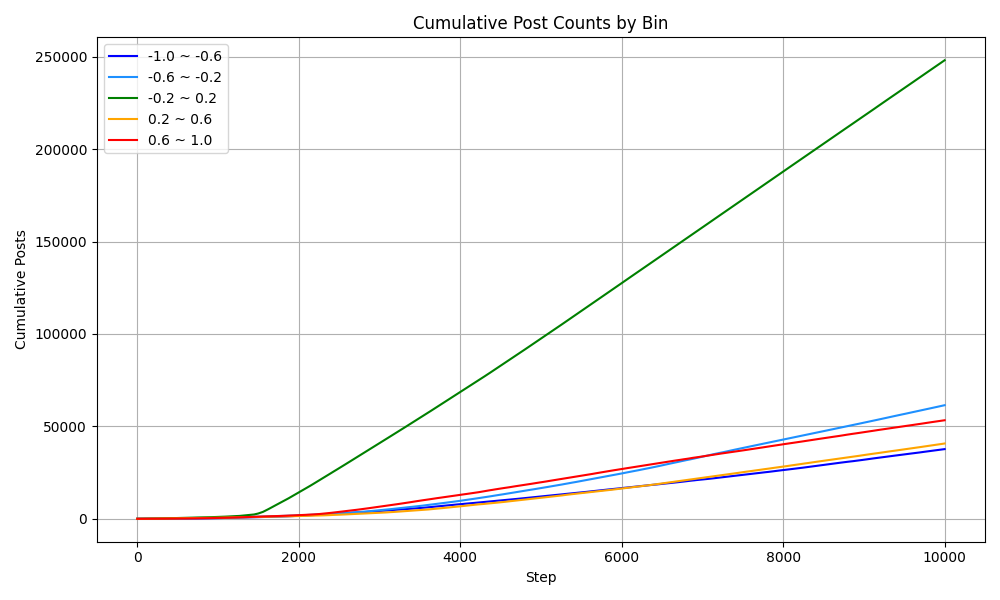
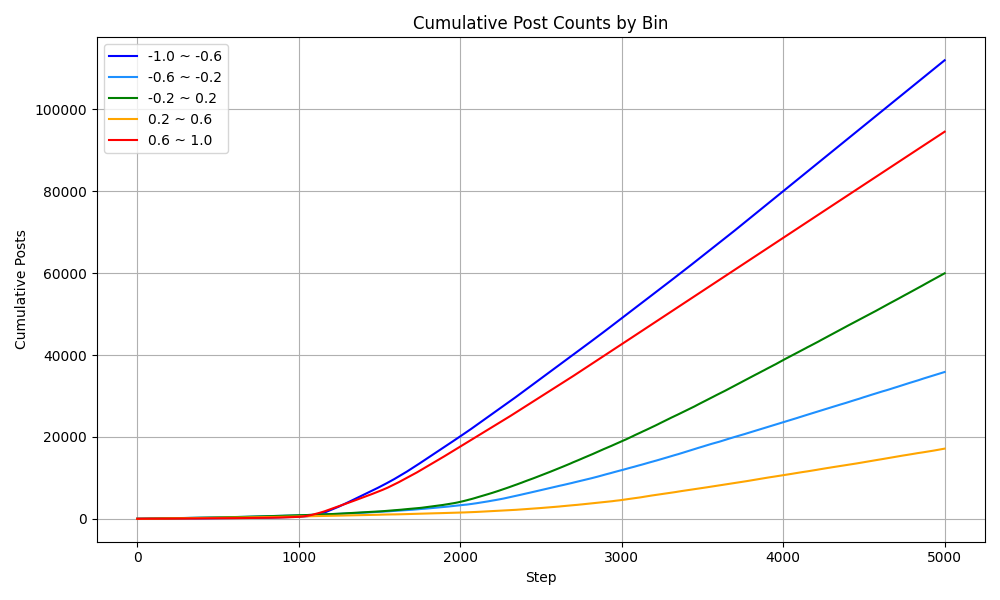
likeが諸悪の根源

diff --git a/src/dynamics/OpinionDynamics.java b/src/dynamics/OpinionDynamics.java
@@ -10,8 +10,7 @@ import java.util.ArrayList;
 import java.util.HashSet;
 import java.util.List;
 import java.util.Random;
-
-import com.gurobi.gurobi.GRBException;
+import java.util.Set;
 
 import network.Network;
 import network.RandomNetwork;
@@ -76,45 +75,65 @@ public class OpinionDynamics {
         writer.setOpinionBins(agentSet);
         writer.write();
 
-        for (int step = 1; step <= t; step++) {
-            int followActionNum = 0;
-            int unfollowActionNum = 0;
-            System.out.println("step = " + step);
+        int followActionNum;
+        int unfollowActionNum;
 
+        for (int step = 1; step <= t; step++) {
+            System.out.println("step = " + step);
+            followActionNum = 0;
+            unfollowActionNum = 0;
 
             writer.clearPostBins();
             writer.setSimulationStep(step);
             double[][] W = admin.getAdjacencyMatrix();
 
-            for(Agent agent : agentSet){
+            for (Agent agent : agentSet) {
                 int agentId = agent.getId();
                 // このstepでSNSを利用するか決定する
-                if(rand.nextDouble() > agent.getMediaUseRate()){
+                if (rand.nextDouble() > agent.getMediaUseRate()) {
                     continue;
                 }
 
                 int likedId = agent.like();
+                //int likedId = -1;
 
                 // follow
-                List<Integer> followList = new ArrayList<>();
+                /*List<Integer> followList = new ArrayList<>();
                 for (int j = 0; j < agentNum; j++) {
                     if (agentId != j && W[agentId][j] == 0.0) {
                         followList.add(j);
                     }
                 }
                 // 重複を削除 (フォローしているユーザがフォローしているユーザは被る可能性がある)
-                followList = new ArrayList<>(new HashSet<>(followList));
+                followList = new ArrayList<>(new HashSet<>(followList));*/
+                List<Integer> followList = new ArrayList<>();
+                Set<Integer> candidates = new HashSet<>();
+
+                // 自分のフォロー相手（1次近傍）を取得
+                for (int j = 0; j < agentNum; j++) {
+                    if (agentId != j && W[agentId][j] > 0.0) {
+                        // フォロー中のエージェント j のフォロー相手を候補に追加（2次近傍）
+                        for (int k = 0; k < agentNum; k++) {
+                            if (k != agentId && W[j][k] > 0.0 && W[agentId][k] == 0.0) {
+                                candidates.add(k);
+                            }
+                        }
+                    }
+                }
+
+                followList = new ArrayList<>(candidates);
+
                 int followedId = agent.follow(followList, agentSet);
-                
+                //int followedId = -1;
 
                 // unfollow
                 int unfollowedId = agent.unfollow();
 
                 // post
-                if(rand.nextDouble() < agent.getPostProb()){
+                if (rand.nextDouble() < agent.getPostProb()) {
                     Post post = agent.makePost(step);
-                    for(Agent otherAgent : agentSet){
-                        if(otherAgent.getId() != agentId && W[agentId][otherAgent.getId()] > 0){ // follower全員のpostCashに追加
+                    for (Agent otherAgent : agentSet) {
+                        if (otherAgent.getId() != agentId && W[agentId][otherAgent.getId()] > 0.01) { // follower全員のpostCashに追加
                             otherAgent.addToPostCash(post);
                         }
                     }
@@ -126,15 +145,15 @@ public class OpinionDynamics {
                 agent.setFeed(admin.AdminFeedback(agentId, agentSet));
                 agent.resetPostCash();
                 ASChecker.assertionChecker(agentSet, network, agentNum, step);
-                if(followedId > 0){
+                if (followedId > 0) {
                     followActionNum++;
                 }
-                if(unfollowedId > 0){
+                if (unfollowedId > 0) {
                     unfollowActionNum++;
                 }
             }
 
-            if (step % 50 == 0) {
+            if (step % 100 == 0) {
                 // export gexf
                 network.setAdjacencyMatrix(admin.getAdjacencyMatrix());
                 gephi.updateGraph(agentSet, network);

diff --git a/src/agent/Agent.java b/src/agent/Agent.java
@@ -1,6 +1,8 @@
 package agent;
 
 import constants.Const;
+
+import java.util.ArrayList;
 import java.util.List;
 import java.util.Random;
 import rand.randomGenerater;
@@ -30,9 +32,9 @@ public class Agent {
         // this.intrinsicOpinion = rand.nextDouble() * 2.0 - 1;
         this.opinion = this.intrinsicOpinion;
         this.bc = Const.BOUNDED_CONFIDENCE; // 動的
-        this.numOfPosts = rand.nextInt(90) + 10;
+        // this.numOfPosts = rand.nextInt(80) + 20;
+        //this.numOfPosts = 10;
         setOpinionClass();
-        this.postCash = new PostCash(numOfPosts);
         this.postProb = Const.INITIAL_POST_PROB;
         this.feed = new int[NUM_OF_AGENTS];
     }
@@ -95,6 +97,11 @@ public class Agent {
 
     public void setNumOfPosts(int value) {
         this.numOfPosts = value;
+        setPostCash(this.numOfPosts);
+    }
+
+    public void setPostCash(int value){
+        this.postCash = new PostCash(value);
     }
 
     public void setToPost(int value) {
@@ -145,8 +152,9 @@ public class Agent {
 
         double comfortPostRate = (double) comfortPostNum / postNum;
         if(comfortPostRate > 0.8){
-            this.postProb += 0.05;
-            this.mediaUseRate += 0.05;
+            // System.out.println("I'm comfort !! having opinion of " + this.opinion);
+            this.postProb += 0.01;
+            this.mediaUseRate += 0.01;
         }
 
         this.opinion = this.tolerance * this.intrinsicOpinion + (1 - this.tolerance) * (temp / postNum);
@@ -172,7 +180,7 @@ public class Agent {
         // System.out.println("clipped updated opinion" + this.opinion);
     }
 
-    public int like() {
+    /*public int like() {
         int attemps = 0;
         if (this.postCash.getSize() <= 0.0) {
             return -1;
@@ -186,14 +194,38 @@ public class Agent {
             attemps++;
         }
         return -1;
+    }*/
+    public int like() {
+    List<Post> candidates = new ArrayList<>();
+    if (this.postCash.getSize() <= 0) {
+        return -1;
     }
+
+    // 条件に合う投稿をすべてリストアップ
+    for (Post post : this.postCash.getAllPosts()) {
+        if (Math.abs(post.getPostOpinion() - this.opinion) < this.bc) {
+            candidates.add(post);
+        }
+    }
+
+    // 条件に合う投稿が存在すればランダムに1つ選ぶ
+    if (!candidates.isEmpty()) {
+        Post likedPost = candidates.get(rand.nextInt(candidates.size()));
+        return likedPost.getPostUserId();
+    } else {
+        return -1;
+    }
+}
+
 
     public int follow(List<Integer> followList, Agent[] agentSet) {
         int followId;
         int attempts = 0;
         if(followList.size() <= 0){
+            // System.out.println("the size of followList is zero ");
             return -1;
         }
+        // System.out.println("the size of followList is " + followList.size());
 
         while (attempts < 100) {
             int tempId = followList.get(rand.nextInt(followList.size()));
@@ -218,6 +250,9 @@ public class Agent {
             if (Math.abs(unfollowPost.getPostOpinion() - this.opinion) > this.bc) {
                 int unfollowId = unfollowPost.getPostUserId();
                 this.bc -= 0.05;
+                if(this.bc < Const.MINIMUM_BC){
+                    this.bc = Const.MINIMUM_BC;
+                }
                 return unfollowId;
             }
             attemps++;

diff --git a/src/gephi/GraphVisualize.java b/src/gephi/GraphVisualize.java
@@ -50,19 +50,24 @@ public class GraphVisualize {
             graphModel.getNodeTable().addColumn("opinionClass", Integer.class);
         }
 
+        Column boundedConfidence = graphModel.getNodeTable().getColumn("boundedConfidence");
+        if(boundedConfidence == null){
+            graphModel.getNodeTable().addColumn("boundedConfidence", Double.class);
+        }
+
         for (int i = 0; i < nodeCount; i++) {
             Node node = graphModel.factory().newNode(String.valueOf(i));
             node.setLabel("Node " + i);
             node.setAttribute("opinion", agents[i].getOpinion());
             node.setAttribute("community", -1);
             node.setAttribute("opinionClass", agents[i].getOpinionClass());
+            node.setAttribute("boundedConfidence", agents[i].getBc());
             graph.addNode(node);
         }
 
         for (int i = 0; i < W.length; i++) {
             for (int j = 0; j < W[i].length; j++) {
                 if (W[i][j] > 0) {
-                    //System.out.println("!!!!!!!!!!!!!!!!");
                     Edge edge = graphModel.factory().newEdge(
                             graph.getNode(String.valueOf(i)),
                             graph.getNode(String.valueOf(j)),
@@ -102,6 +107,7 @@ public class GraphVisualize {
             if (node != null) {
                 node.setAttribute("opinion", agents[i].getOpinion());
                 node.setAttribute("opinionClass", agents[i].getOpinionClass());
+                node.setAttribute("boundedConfidence", agents[i].getBc());
             }
         }
 

diff --git a/src/constants/Const.java b/src/constants/Const.java
@@ -2,14 +2,14 @@ package constants;
 
 public class Const {
     // simulation parameter
-    public static final int MAX_SIMULATION_STEP = 10000;
+    public static final int MAX_SIMULATION_STEP = 5000;
     public static final int NUM_OF_USER = 200;
     public static final int NUM_OF_SNS_USER = NUM_OF_USER;
-    public static final int RANDOM_SEED = 5;
+    public static final int RANDOM_SEED = 1;
 
     // Admin feedback parameter
     // public static final double FEEDBACK_INCREASE_WEIGHT = 0.1;
-    public static final double LIKE_INCREASE_WEIGHT = 0.1;
+    public static final double LIKE_INCREASE_WEIGHT = 0.001;
     public static final double FOLLOW_INCREASE_WEIGHT = 0.1;
     
 
@@ -19,10 +19,10 @@ public class Const {
     public static final double CONNECTION_PROB_OF_RANDOM_NW = 0.2;
 
     // follow parameter
-    public static final double FOLLOW_RATE = 0.5;
+    //public static final double FOLLOW_RATE = 0.5;
 
     // unfollow parameter
-    public static final double UNFOLLOW_RATE = 0.1;
+    //public static final double UNFOLLOW_RATE = 0.1;
     //public static final double MIN_OPINION_DIFF_TO_UNFOLLOW = 0.4;
 
     // agent parameter

diff --git a/src/optim/AdminOptim.java b/src/optim/AdminOptim.java
@@ -23,6 +23,7 @@ public class AdminOptim {
     public void updateAdjacencyMatrix(int userId, int likedId, int followedId, int unfollowedId) {
         if (likedId > 0) {
             this.W[userId][likedId] += Const.LIKE_INCREASE_WEIGHT;
+            //System.out.println("increased weight : " + this.W[userId][likedId]);
         }
         if (followedId > 0) {
             this.W[userId][followedId] = Const.FOLLOW_INCREASE_WEIGHT;
@@ -51,10 +52,13 @@ public class AdminOptim {
         // これをW行列から算出する
         int[] feed = new int[n];
         int maxPostNum = agentSet[userId].getNumOfPosts(); // ユーザが一度の閲覧で消費できる投稿数の上限
+        int temp = 0;
 
         for (int i = 0; i < n; i++) {
             feed[i] = (int) Math.round(this.W[userId][i] * maxPostNum);
+            temp += feed[i];
         }
+        // System.out.println("max post num : " + temp);
 
         return feed;
     }

diff --git a/src/writer/Writer.java b/src/writer/Writer.java
@@ -93,15 +93,17 @@ public class Writer {
                 sb.append(",");
                 switch (key) {
                     case "opinionVar":
-                        sb.append(opinionVar);
+                        sb.append(this.opinionVar);
                         break;
                     case "follow":
-                        sb.append(followActionNum);
+                        sb.append(this.followActionNum);
                         break;
                     case "unfollow":
-                        sb.append(unfollowActionNum);
+                        sb.append(this.unfollowActionNum);
+                        break;
                     case "rewire":
-                        sb.append(rewireActionNum);
+                        sb.append(this.rewireActionNum);
+                        break;
                     default:
                         sb.append(""); // 未定義の項目は空
                 }

diff --git a/python/scripts/post_analysis.py b/python/scripts/post_analysis.py
@@ -2,7 +2,7 @@ import pandas as pd
 import matplotlib.pyplot as plt
 import os
 
-def read_and_accumulate_bins(data_dir, bins, max_index=10000):
+def read_and_accumulate_bins(data_dir, bins, max_index=5000):
     cumulative_counts = {bin_name: [] for bin_name in bins}
     current_cumulative = {bin_name: 0 for bin_name in bins}
     x = []
